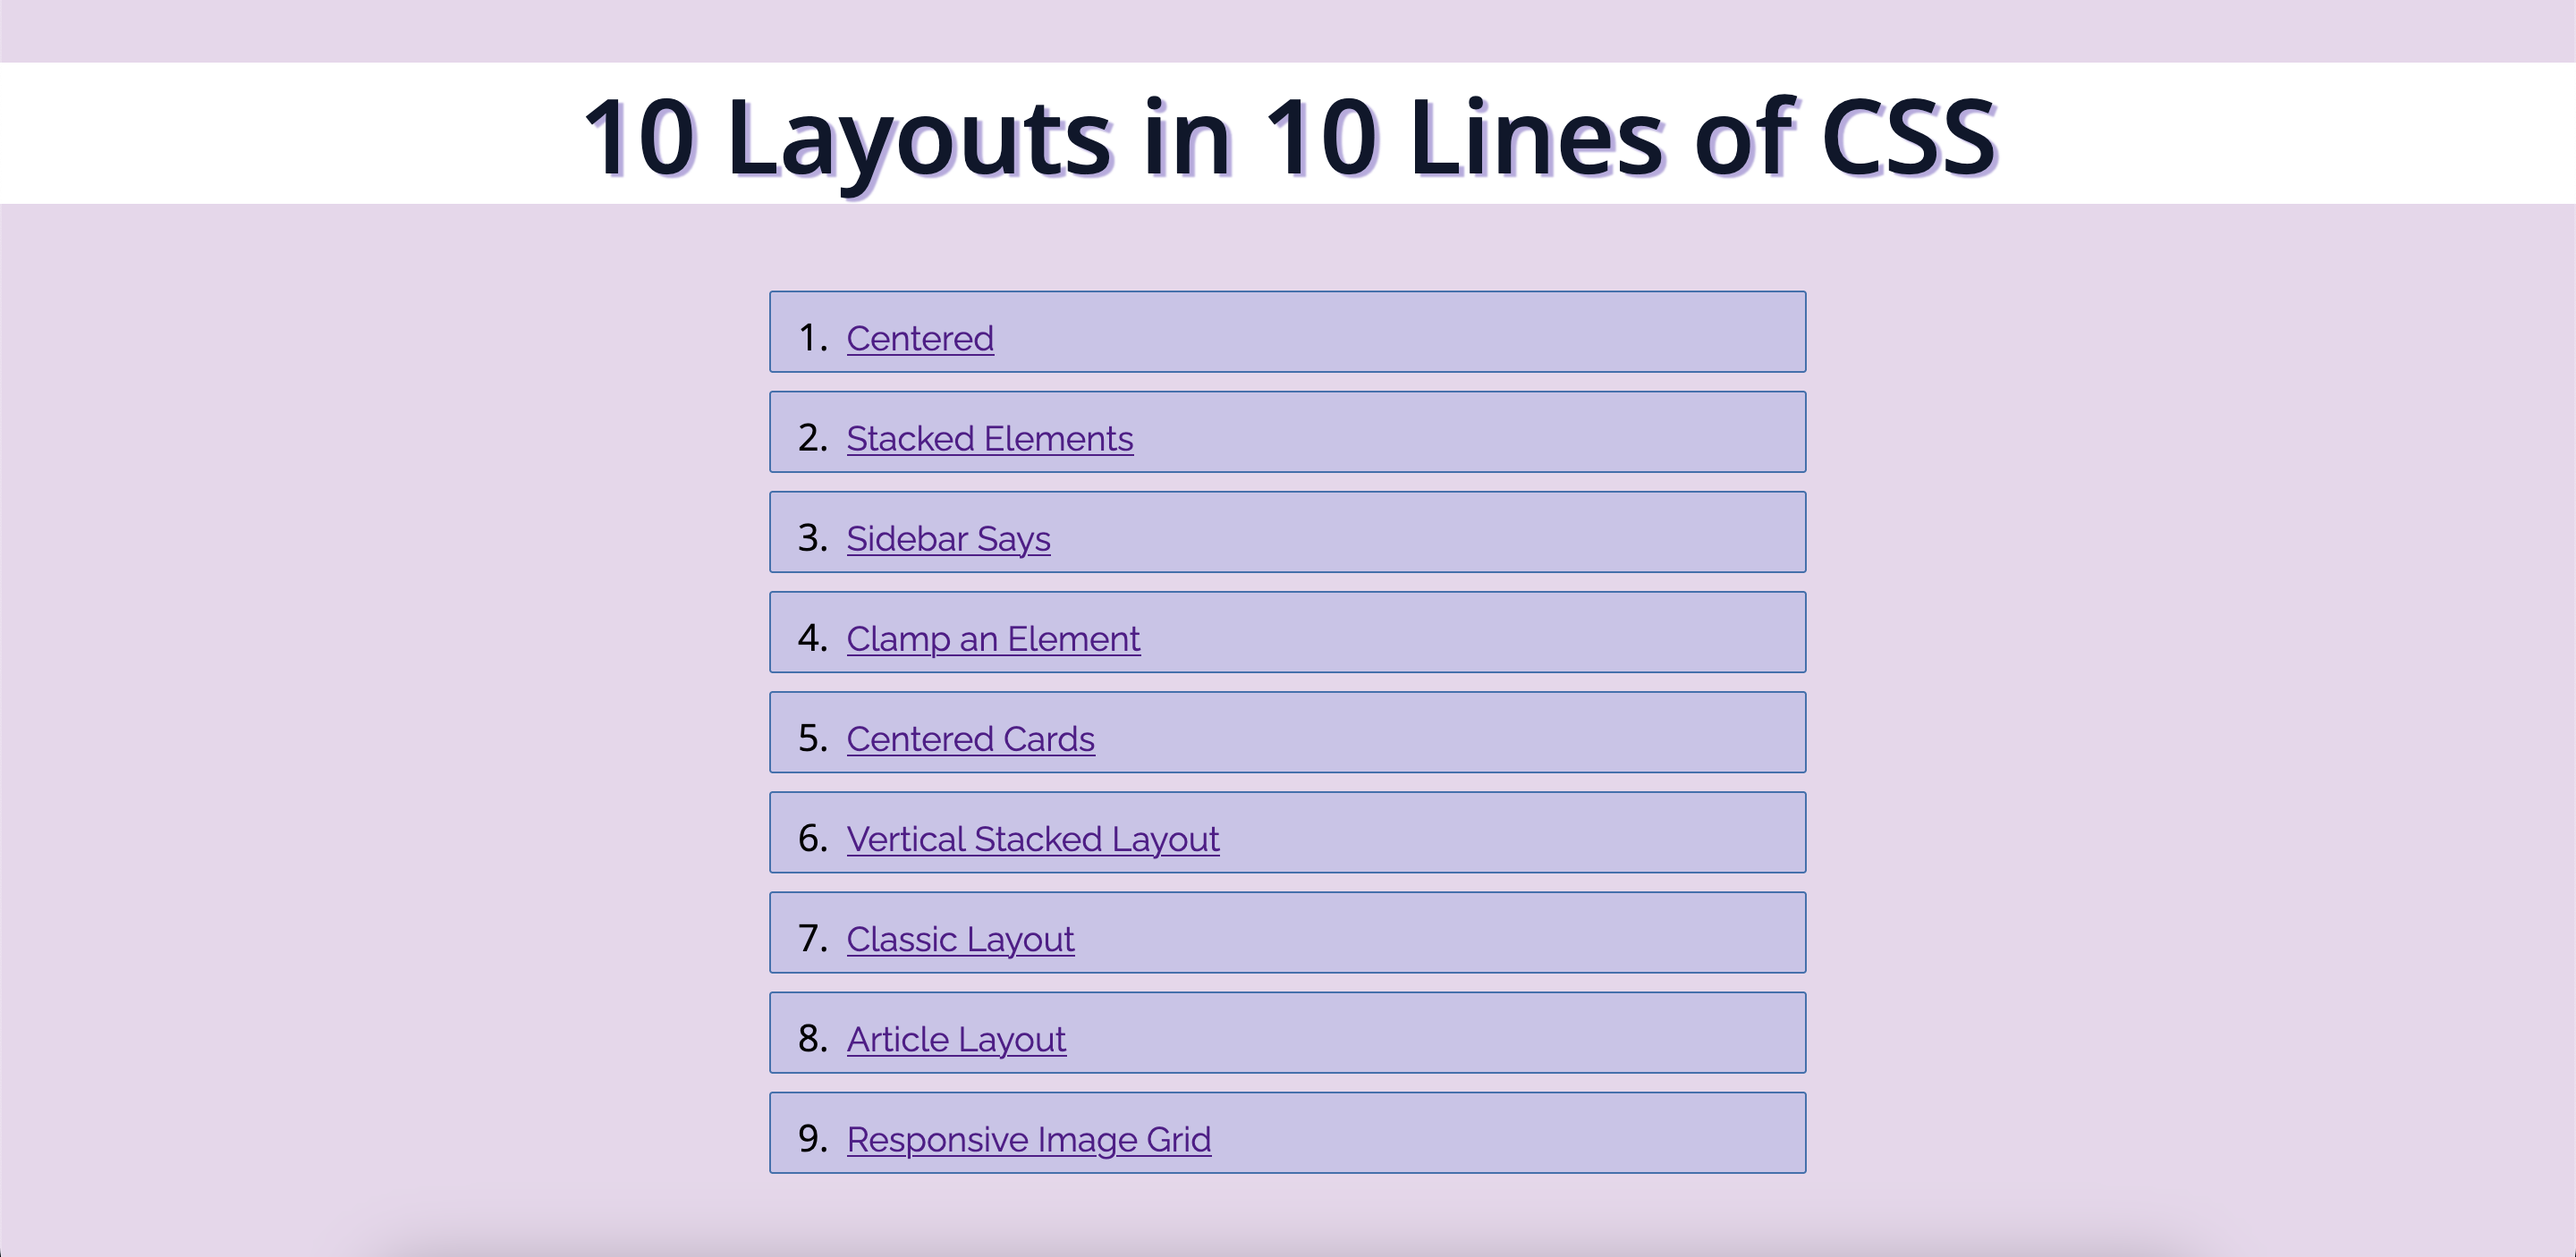
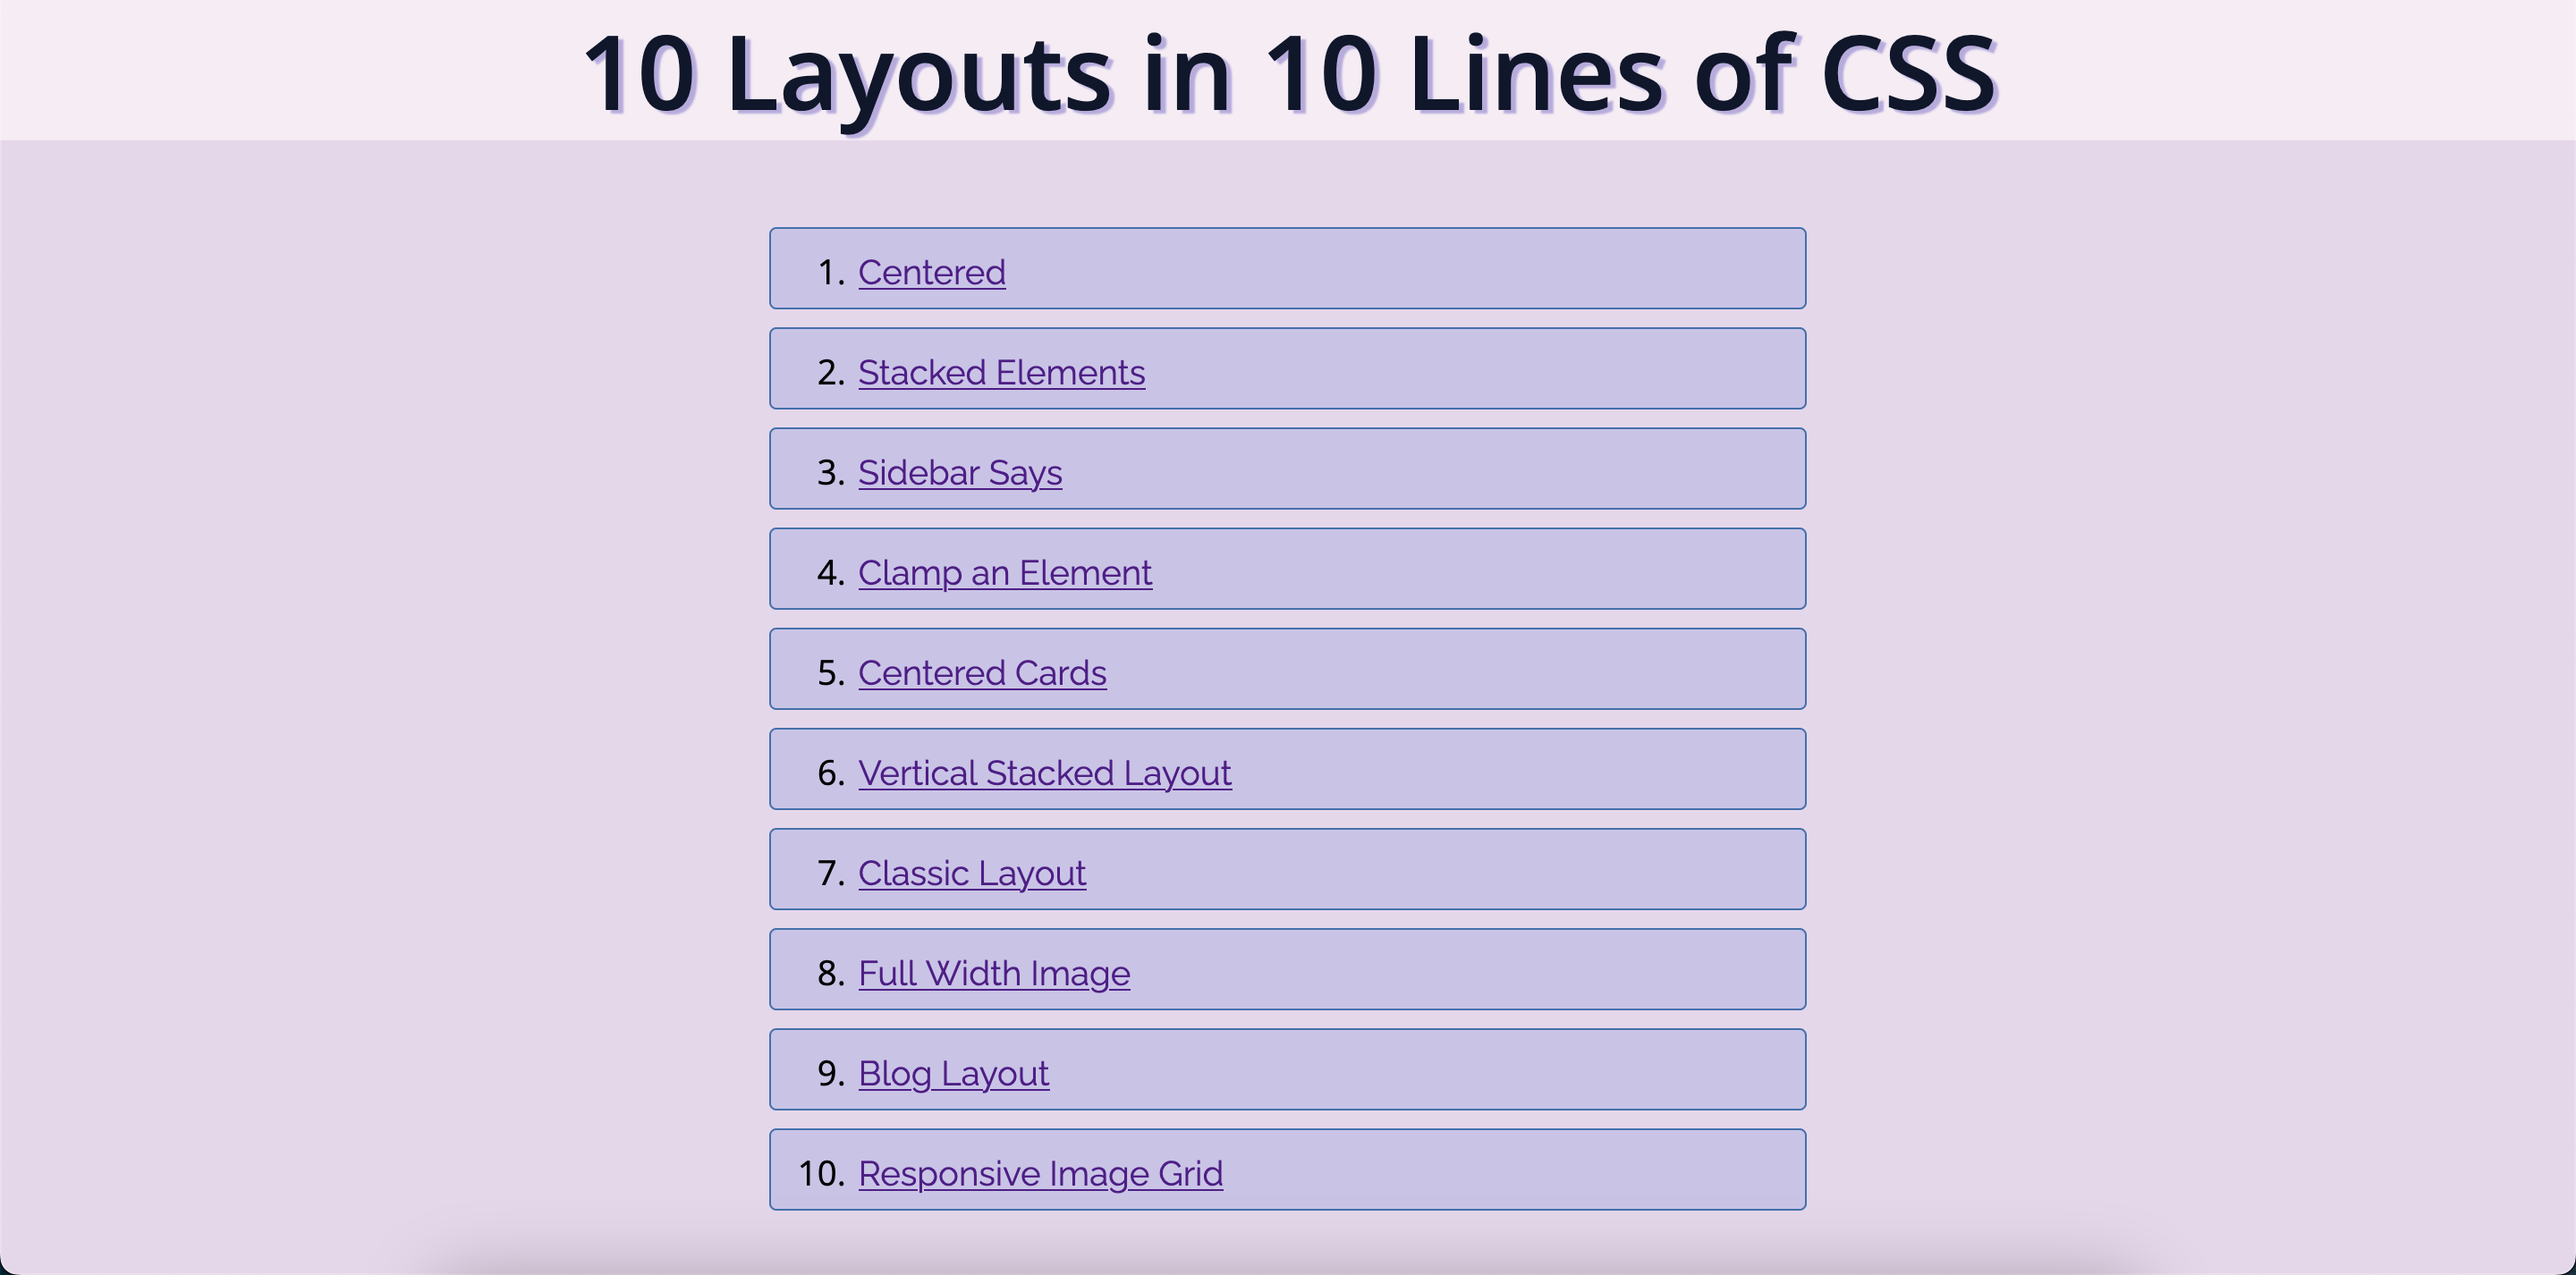
update screenshot, improve layout shifting

Changed region(s): [[0.0, 0.0306, 1.0, 0.9481]]

diff --git a/index.html b/index.html
@@ -5,8 +5,71 @@
     <meta charset="UTF-8">
     <meta name="viewport" content="width=device-width, initial-scale=1.0">
     <title>10 Layouts in 10 Lines of CSS</title>
-    <link rel="stylesheet" href="./style.css">
     <link rel="stylesheet" href="./reset.css">
+    <link rel="preconnect" href="https://fonts.googleapis.com">
+    <link rel="preconnect" href="https://fonts.gstatic.com" crossorigin>
+
+    <link
+        href="https://fonts.googleapis.com/css2?family=Open+Sans:wght@400;600&family=Raleway:wght@100;300;400;500&display=swap"
+        rel="stylesheet">
+    
+    <style>
+        header {
+            text-align: center;
+            font-family: "Open Sans";
+            font-size: 1.8rem;
+            text-shadow: 3px 2px 1px #b9abe0;
+            color: #0e172c;
+            background-color: rgb(246, 236, 244);
+            padding: 10x;
+        }
+
+        main {
+            display: grid;
+            grid-template-columns: auto minmax(300px, 600px) auto;
+        }
+
+        ul {
+            list-style: none;
+            margin: 0;
+            padding: 0;
+            grid-column: 2/3;
+        }
+
+        li {
+            padding: 10px 5px 5px 5px;
+            margin: 10px;
+            font-family: "Raleway";
+            font-size: 1.2rem;
+            border: 1px solid #3671b0;
+            border-radius: 4px;
+            background-color: #cbc4e9;
+            transition: box-shadow 0.2s ease-in-out;
+        }
+
+        li:hover {
+            box-shadow: inset 4px 0 0 0 #1e2e7c;
+        }
+
+
+        li span {
+            padding: 0px 7px 2px 0px;
+            font-family: "Open Sans";
+            display: inline-block;
+            width: 4ch;
+            text-align: right;
+        }
+
+        @media screen and (max-width: 640px) {
+            header {
+                font-size: 1.2rem;
+            }
+
+            li {
+                font-size: 1rem;
+            }
+        }
+    </style>
 </head>
 
 <body>
